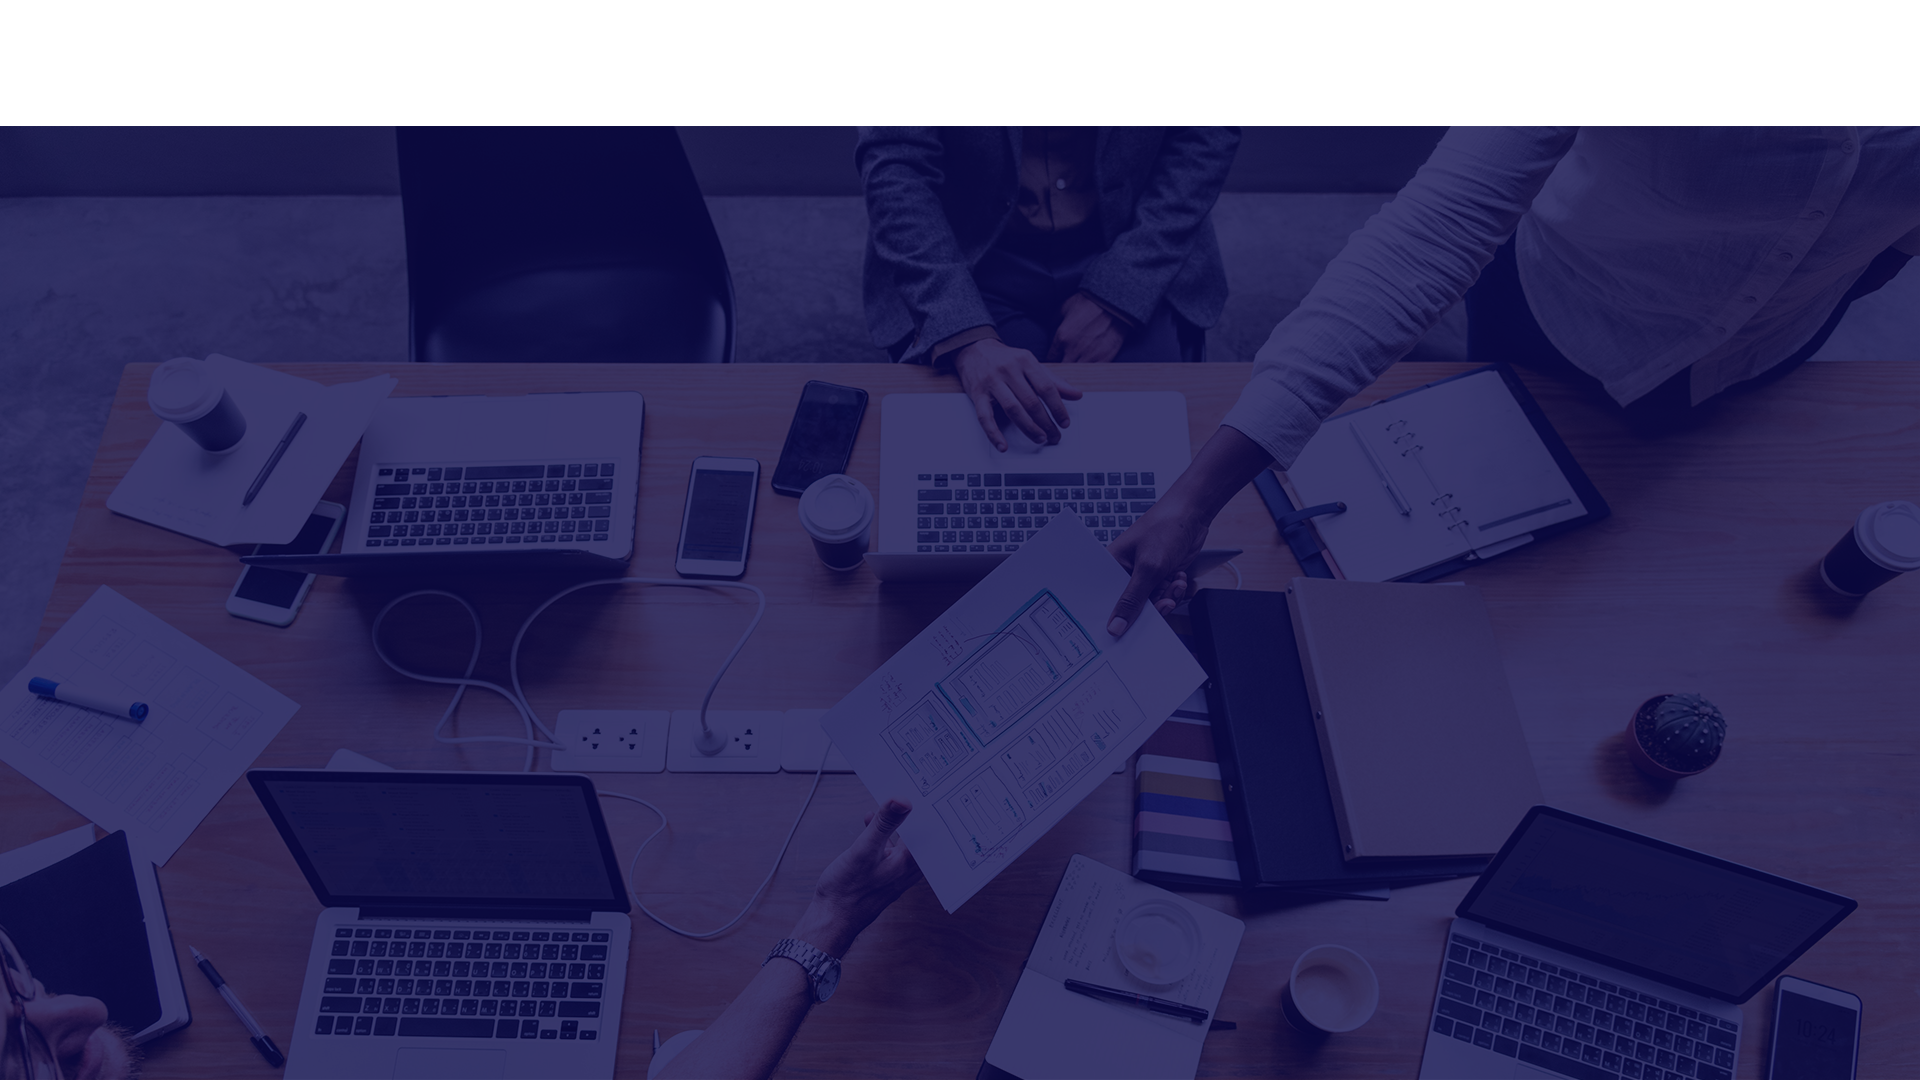
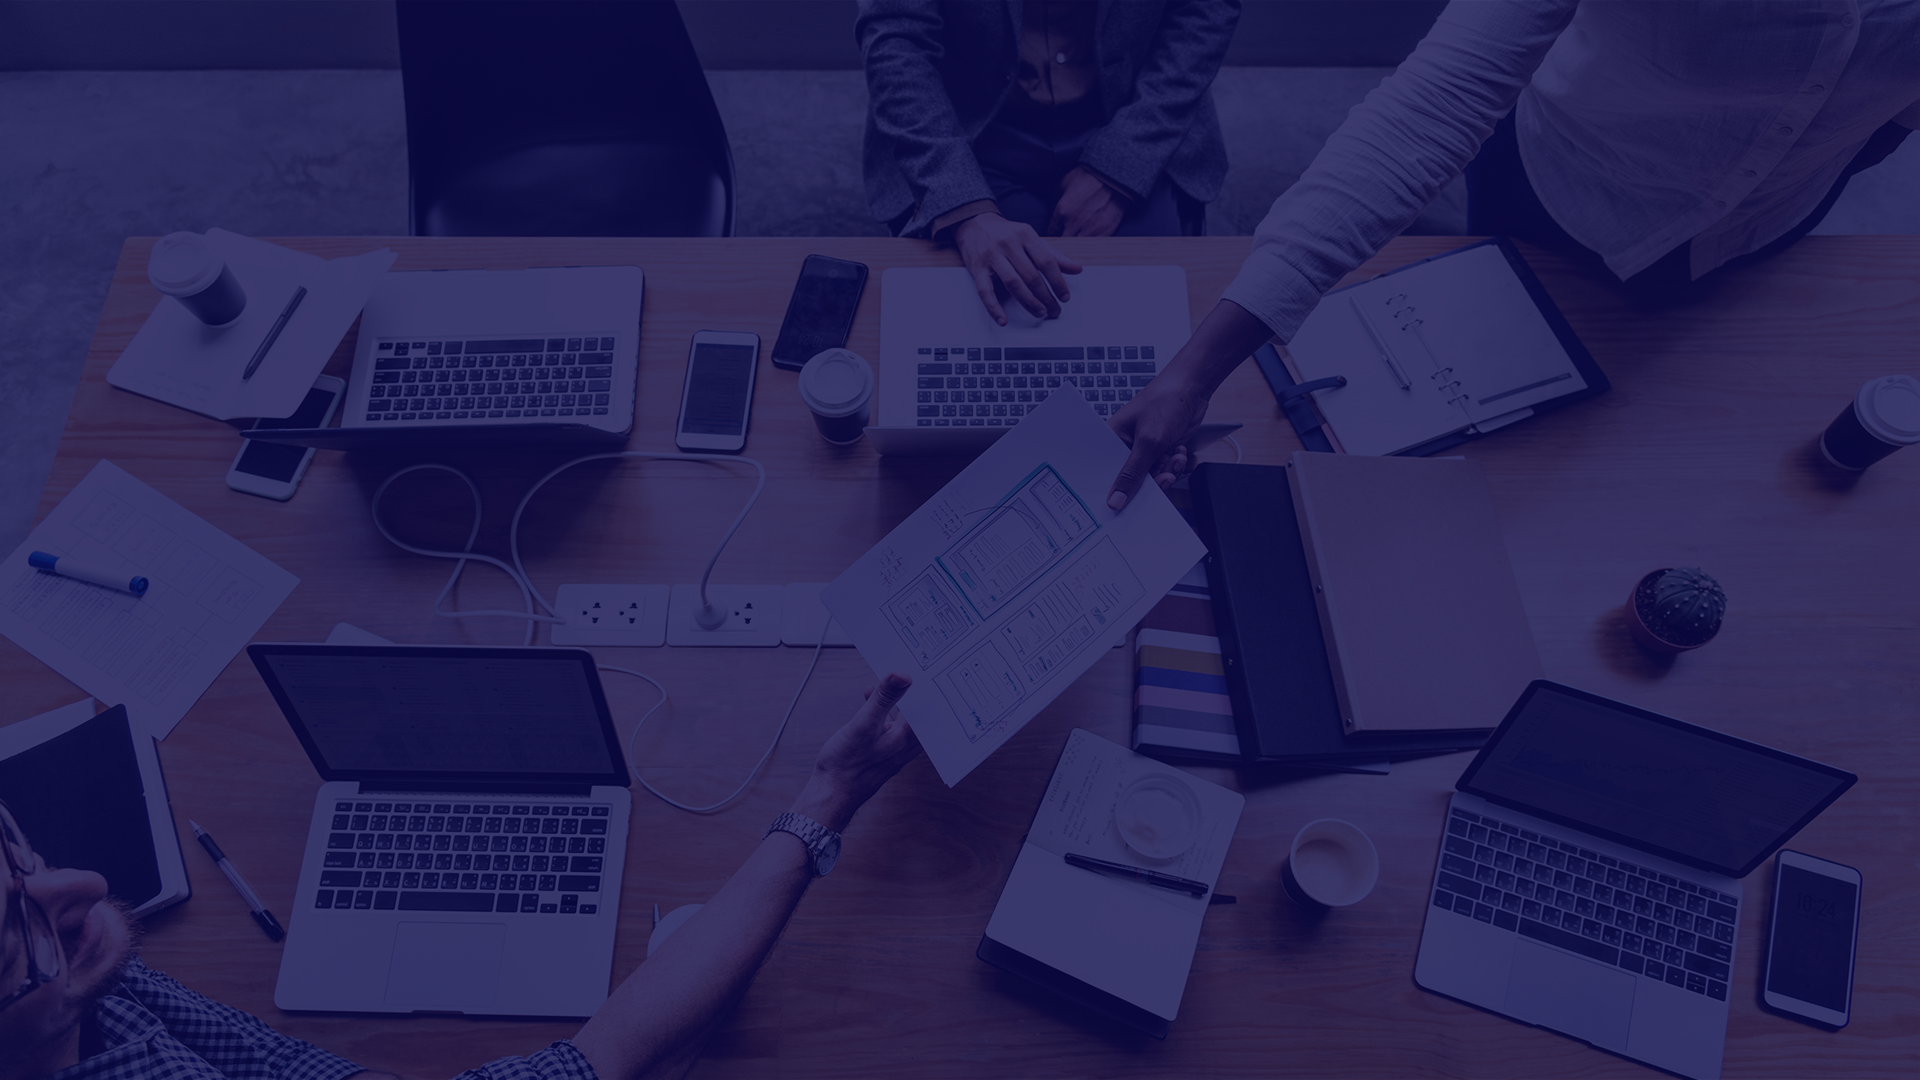
update
- deleted view notes button, moved navigation to dropdown menu
- navbar is fully functional
- completed about page (still need to properly layout bottom half)
- various background for diff pages
- edited show meetings layout

diff --git a/Database/views/public/css/about.css b/Database/views/public/css/about.css
@@ -1,0 +1,53 @@
+/* @author Claudia Mastan */
+
+@import 'base.css';
+
+body
+{
+    background-image: url("../img/bg-3.png");
+    background-size: 100%;
+}
+
+.main, .text
+{
+    text-align: left;
+}
+
+.main
+{
+    padding-top: 15rem;
+}
+
+h1
+{
+    font-size: 4rem;
+}
+.text
+{
+    padding-top: 8rem;
+    padding-right: 60%;
+}
+
+/*https://css-tricks.com/having-fun-with-link-hover-effects/*/
+
+a
+{
+    color: white;
+    text-decoration: underline;
+    transition: 0.5s
+}
+
+a:hover
+{
+    background-color: white;
+    color: #0a0849;
+    text-decoration: none;
+    padding: 0 .5rem;
+}
+
+/*temporary, later need to put this as css*/
+#start
+{
+    padding-top:20rem;
+    width: 100%;
+}

diff --git a/Database/server.js b/Database/server.js
@@ -128,6 +128,10 @@ function guidGenerator() {
     res.render("public/index");
 });
 
+ app.get("/about", (req, res) => {
+    res.render("public/about");
+});
+
  app.post("/create_mtg", (req, res) => {
     sanitizeBody('mtg_name').trim().escape(),
     body('mtg_name').isLength({ min: 1 }).trim().withMessage('Meeting Name Empty.')
@@ -168,7 +172,6 @@ app.post('/show_audios', (req, res) => {
     }
     db_func.showAllAudio(req.body.mtg_id, render_audios);
 });
-
 
  app.listen("8080", () => {
     console.log(__dirname+": Listening on localhost 8080...")

diff --git a/Database/views/public/css/base.css b/Database/views/public/css/base.css
@@ -1,17 +1,20 @@
 /*body base styling*/
+body,html
+{
+    width: 100%;
+}
 body
 {
     text-align: center;
     font-family: 'Rubik', sans-serif;
     color: white;
-    background-image: url("../img/bg-1.png");
     background-size: cover;
 }
 
 /*KnoCap logo*/
 .navbar-brand img
 {
-    margin-left: 47%;
+    margin-left: 10%;
     height: 5rem;
     
 }

diff --git a/Database/views/public/css/index.css b/Database/views/public/css/index.css
@@ -3,6 +3,11 @@
 
 @import 'base.css';
 
+body
+{
+    background-image: url("../img/bg-1.png");
+}
+
 .main
 {
     padding-top: 20rem;
@@ -80,8 +85,9 @@ container .button:active:after {
     transition: 0s
 }
 
-/*only if view meeting button not omitted*/
+/*only if view meeting button not omitted
 .main #strtmt
 {
     padding-bottom: 1.5rem;
 }
+*/

diff --git a/Database/views/public/css/record.css b/Database/views/public/css/record.css
@@ -3,6 +3,11 @@
 @import 'base.css';
 
 /*space between Meeting and navbar*/
+
+body
+{
+    background-image: url("../img/bg-2.png");
+}
 .main
 {
     padding-top: 10rem;
